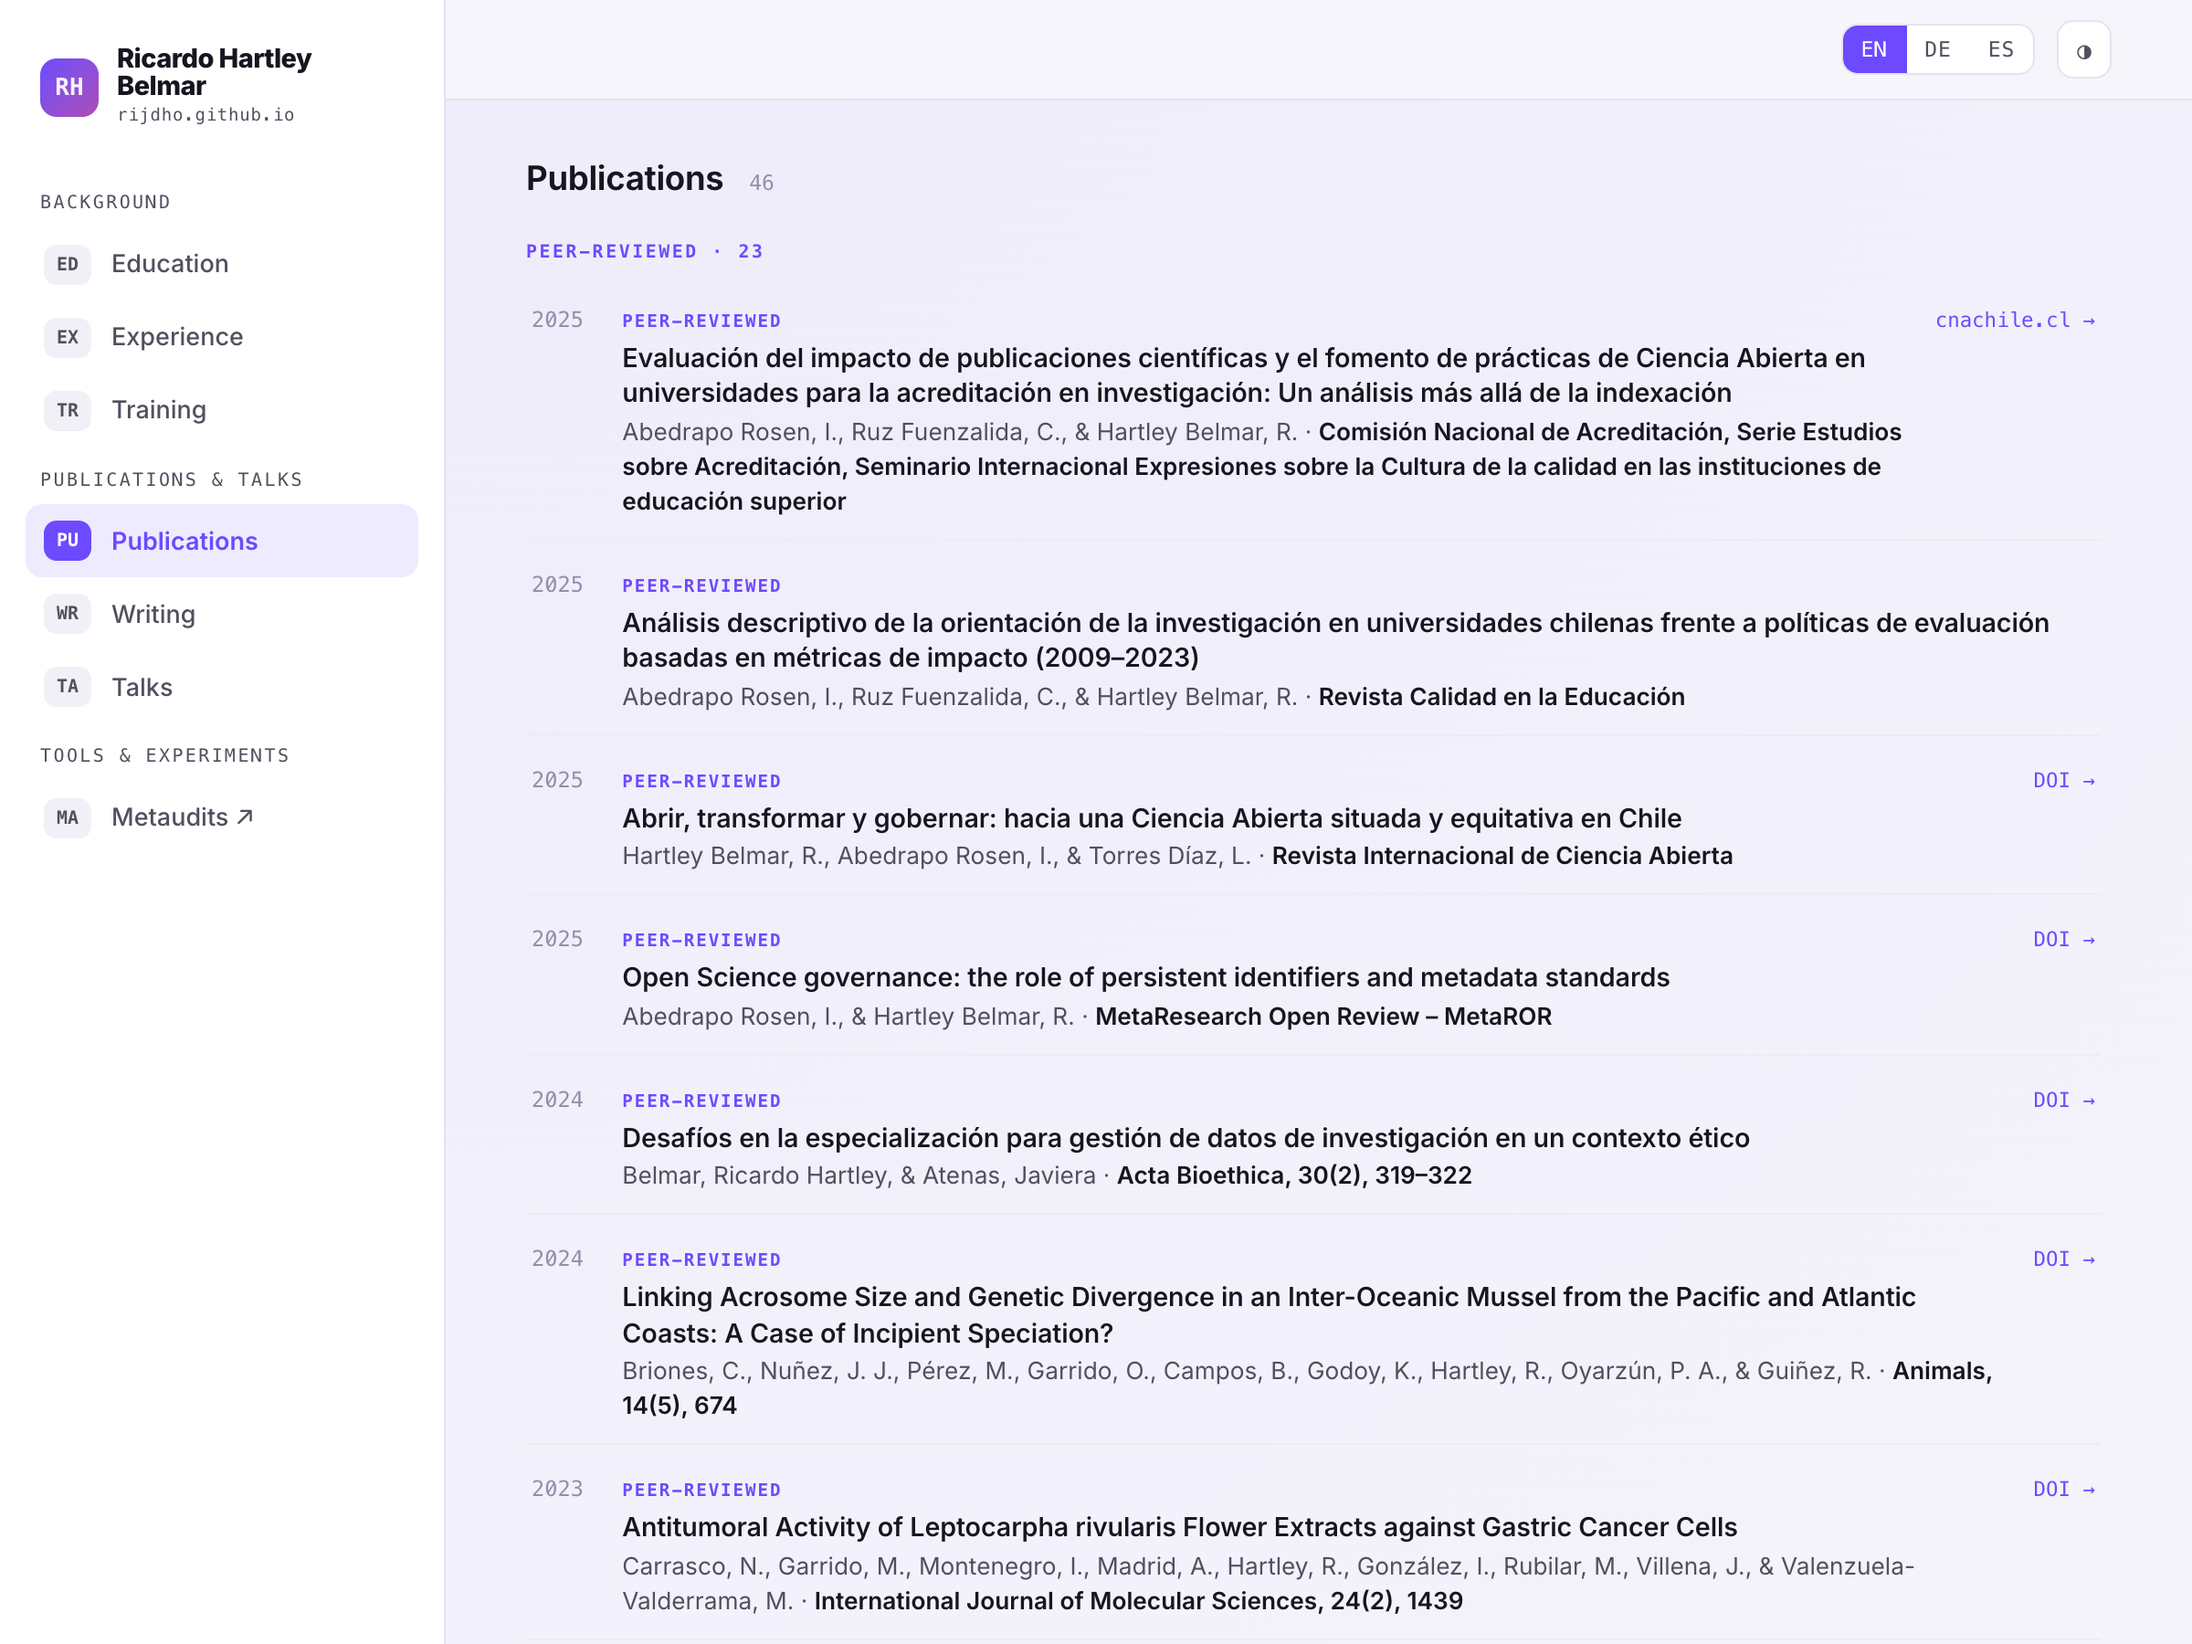
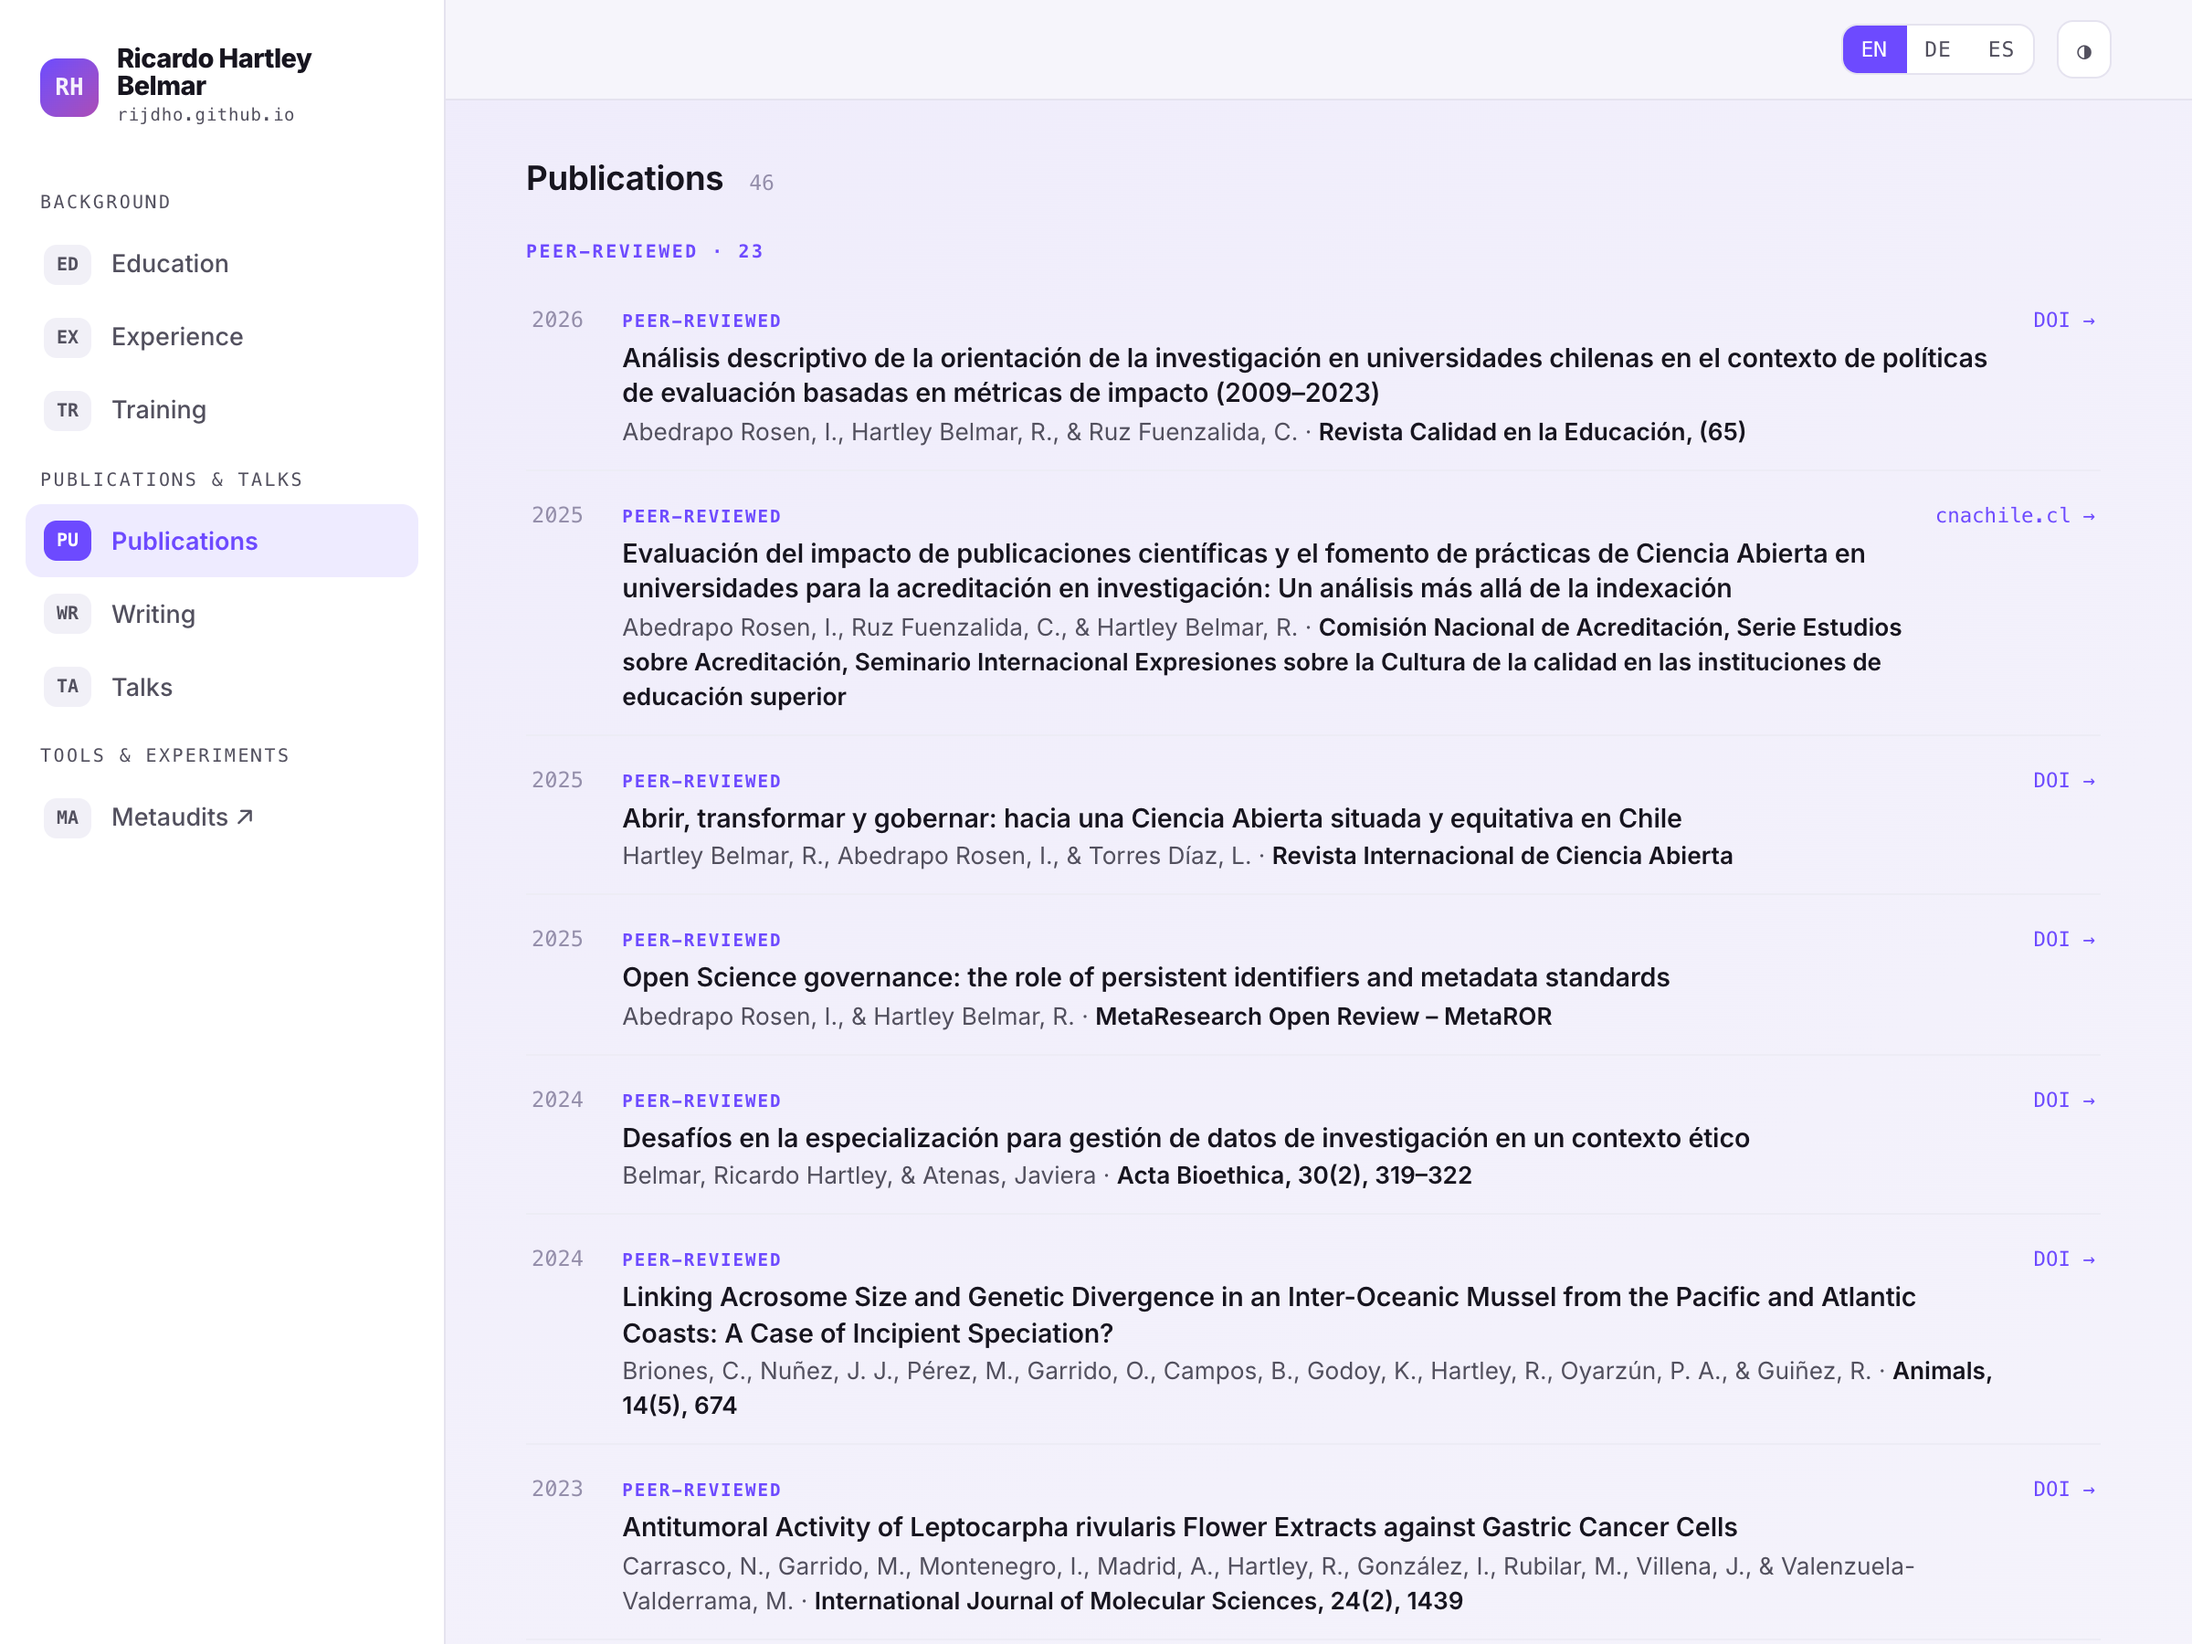
Remove leftovers the audit confirmed, and bring the docs back in step
The oval label table kept BiblioHelp and Metaudits entries no tool matches,
hub.css defined four tokens nothing reads, and its own @font-face rules
shadowed the shell's, so house/fonts/ was never fetched. The README images,
the repo CLAUDE.md and two test comments described an older site.

Changed region(s): [[0.2812, 0.1867, 0.9375, 0.4356]]

diff --git a/hub.css b/hub.css
@@ -1,40 +1,33 @@
-@font-face{font-family:"Inter Variable";font-style:normal;font-display:swap;font-weight:100 900;
-  src:url(./fonts/inter-latin-wght-normal.woff2) format("woff2-variations");
-  unicode-range:U+0000-00FF,U+0131,U+0152-0153,U+02BB-02BC,U+02C6,U+02DA,U+02DC,U+0304,U+0308,U+0329,U+2000-206F,U+2074,U+20AC,U+2122,U+2191,U+2193,U+2212,U+2215,U+FEFF,U+FFFD}
-@font-face{font-family:"Inter Variable";font-style:normal;font-display:swap;font-weight:100 900;
-  src:url(./fonts/inter-latin-ext-wght-normal.woff2) format("woff2-variations");
-  unicode-range:U+0100-02BA,U+02BD-02C5,U+02C7-02CC,U+02CE-02D7,U+02DD-02FF,U+0304,U+0308,U+0329,U+1D00-1DBF,U+1E00-1E9F,U+1EF2-1EFF,U+2020,U+20A0-20AB,U+20AD-20C0,U+2113,U+2C60-2C7F,U+A720-A7FF}
+/* Inter comes from house/house.css, which declares the same faces over house/fonts/. */
 
   :root{
-    --brand:#6d4aff; --brand-ink:#fff; --brand-weak:#eeebff;
+    --brand:#6d4aff; --brand-ink:#fff;
     --paper:#f7f6fb; --surface:#fff; --surface-alt:#f1f0f7; --border:#e5e3ef; --hair:#edecf5;
     --ink:#17151f; --muted:#52505e; --faint:#948eaa;
-    --ok:#178a5f; --ok-bg:#e7f5ee;
     --t-metadata:#0ea5a4; --t-assessment:#d97706; --t-infra:#4f6bed; --t-story:#db2777;
     --shadow:0 1px 2px rgba(23,21,31,.06), 0 8px 24px rgba(23,21,31,.05);
     --sans:"Inter Variable","Inter",system-ui,-apple-system,"Segoe UI",Roboto,sans-serif;
     --disp:"Inter Variable","Inter","Helvetica Neue",Helvetica,Arial,system-ui,sans-serif;
     --mono:ui-monospace,"SF Mono","JetBrains Mono",Menlo,Consolas,monospace;
-    --maxw:1080px;
   }
   @media (prefers-color-scheme:dark){:root{
-    --brand:#8b7bff; --brand-ink:#121118; --brand-weak:#221f35;
+    --brand:#8b7bff; --brand-ink:#121118;
     --paper:#121118; --surface:#1b1a22; --surface-alt:#232230; --border:#2c2a38; --hair:#262432;
-    --ink:#eceaf3; --muted:#a9a7b5; --faint:#6f6987; --ok:#37b98a; --ok-bg:#12271f;
+    --ink:#eceaf3; --muted:#a9a7b5; --faint:#6f6987;
     --t-metadata:#14b8a6; --t-assessment:#e08a09; --t-infra:#7c8ff5; --t-story:#ee5aa4;
     --shadow:0 1px 2px rgba(0,0,0,.3), 0 12px 34px rgba(0,0,0,.4);
   }}
   :root[data-theme="light"]{
-    --brand:#6d4aff; --brand-ink:#fff; --brand-weak:#eeebff;
+    --brand:#6d4aff; --brand-ink:#fff;
     --paper:#f7f6fb; --surface:#fff; --surface-alt:#f1f0f7; --border:#e5e3ef; --hair:#edecf5;
-    --ink:#17151f; --muted:#52505e; --faint:#948eaa; --ok:#178a5f; --ok-bg:#e7f5ee;
+    --ink:#17151f; --muted:#52505e; --faint:#948eaa;
     --t-metadata:#0ea5a4; --t-assessment:#d97706; --t-infra:#4f6bed; --t-story:#db2777;
     --shadow:0 1px 2px rgba(23,21,31,.06), 0 8px 24px rgba(23,21,31,.05);
   }
   :root[data-theme="dark"]{
-    --brand:#8b7bff; --brand-ink:#121118; --brand-weak:#221f35;
+    --brand:#8b7bff; --brand-ink:#121118;
     --paper:#121118; --surface:#1b1a22; --surface-alt:#232230; --border:#2c2a38; --hair:#262432;
-    --ink:#eceaf3; --muted:#a9a7b5; --faint:#6f6987; --ok:#37b98a; --ok-bg:#12271f;
+    --ink:#eceaf3; --muted:#a9a7b5; --faint:#6f6987;
     --t-metadata:#14b8a6; --t-assessment:#e08a09; --t-infra:#7c8ff5; --t-story:#ee5aa4;
     --shadow:0 1px 2px rgba(0,0,0,.3), 0 12px 34px rgba(0,0,0,.4);
   }

diff --git a/hub.js b/hub.js
@@ -63,16 +63,14 @@ function srcLabel(u){if(!u)return"";try{const h=new URL(u).hostname.replace(/^ww
 /* curated short labels shown inside the ovals (order matters: OpenAIRE variant before the plain MCP) */
 const SHORT=[
   /* Curated because a full title does not fit a 46px oval and the fallback, the part
-     before the colon, is not always distinct enough. "BiblioHelp Open" is anchored and
-     comes first because the plain /BiblioHelp/ below would swallow it and leave the twin
-     and its hosted sibling wearing the same label, which is two ovals a reader cannot
-     tell apart. The full name stays a hover away in the tooltip and a click away in the
-     panel. */
-  [/^BiblioHelp Open/,"BiblioHelp (open)"],[/^FAIR Metadata Check \(Extended\)/,"FAIR Check Extended"],
+     before the colon, is not always distinct enough. "FAIR Metadata Check (Extended)" is
+     anchored and comes first because the plain /^FAIR Metadata Check/ below would swallow
+     it and leave the hosted tool and its open twin wearing the same label. The full name
+     stays a hover away in the tooltip and a click away in the panel. */
+  [/^FAIR Metadata Check \(Extended\)/,"FAIR Check Extended"],
   [/^FAIR Metadata Check/,"FAIR Check"],
   [/^Research Assessment Reform Planner/,"Research Assessment Reform Planner"],[/^ORCID Affiliation Finder/,"ORCID Affiliation Finder"],
-  [/^The Sound of Inequality/,"The Sound of Inequality"],
-  [/BiblioHelp/,"BiblioHelp"],[/^Metaudits/,"Metaudits"],[/^Pollen/,"Pollen"],
+  [/^The Sound of Inequality/,"The Sound of Inequality"],[/^Pollen/,"Pollen"],
   [/MCP CRIS Live: OpenAIRE/,"MCP OpenAIRE"],
   [/MCP CRIS Live/,"MCP CRIS"],[/OpenAIRE Research/,"OpenAIRE AI"],
   [/PID Traceability/,"PID Workflows"],[/Value of Open Research Information/,"Value of Open Research Information"],

diff --git a/index.html b/index.html
@@ -23,7 +23,7 @@ works only as a response header, and GitHub Pages sends none. -->
 <!-- social:end -->
 <!-- The family shell (a synced copy of rijdho/house-style: scripts/sync-house.mjs), then this page's own styles. -->
 <link rel="stylesheet" href="./house/house.css?v=1">
-<link rel="stylesheet" href="./hub.css?v=4">
+<link rel="stylesheet" href="./hub.css?v=5">
 
 <div class="app" id="app">
   <aside class="rail">
@@ -110,4 +110,4 @@ works only as a response header, and GitHub Pages sends none. -->
   </div>
 </div>
 
-<script src="./hub.js?v=10"></script>
+<script src="./hub.js?v=11"></script>

diff --git a/CLAUDE.md b/CLAUDE.md
@@ -8,8 +8,8 @@ vanilla JS. Part of the violet-family design system (see `../CLAUDE.md`).
 
 `data/cv.json` is the only place CV content lives. Three consumers read it:
 
-- `index.html`: the hub. `fetch('./data/cv.json')` → derives `DATA` (apps = `experiments`,
-  writing = `portfolio`) and `EXTRA` (the tab categories), then renders the tabs + cloud.
+- `index.html` + `hub.js`: the hub. `hub.js` runs `fetch('./data/cv.json')` → derives
+  `DATA` (apps = `experiments`, writing = `portfolio`) and `EXTRA` (the tab categories), then renders the tabs + cloud.
   **Layout since 2026-09-24: the family shell** (a synced copy of rijdho/house-style in
   `house/`, `scripts/sync-house.mjs`, `tests/house.test.mjs`). The rail lists the sections,
   built by `renderNav()` from `TAB_GROUPS`: education, experience, training ("Background"),
@@ -22,7 +22,7 @@ vanilla JS. Part of the violet-family design system (see `../CLAUDE.md`).
   from the CV on 2026-09-24, at the author's request (data, page, hub and Markdown).
   Topic assignment for the cloud is the `topic` field on each experiment, and **it is data**,
   edit it there, not in code. Topic *labels/colours* are config (the `TOPICS` object in
-  `index.html`). The text inside an oval is config too: the `SHORT` table maps a title to a
+  `hub.js`). The text inside an oval is config too: the `SHORT` table maps a title to a
   short label, and anything unmatched falls back to the title itself. **A new tool needs a
   `SHORT` entry**, or its oval shows whatever the title is, which for the open twins is the
   repository slug. That is the right name in a citation and the wrong one in a 46px oval,
@@ -48,7 +48,8 @@ existed as a slash-separated list in `cv.json` and a full-stop-separated one in 
 
 Two literals are kept on purpose, and both are overwritten by `render()` on load: the name
 in the `<h1>` and the ORCID chip. They are the page's identity, neither ever changes, and
-the site has no `og:` tags, so raw HTML is all a link unfurler gets. Prose is never
+a link unfurler reads only raw HTML (the `og:` block that `build_cv.py` writes covers the
+preview, not the page body). Prose is never
 duplicated this way, because prose is what actually changes.
 
 **To update anything on the site, edit `data/cv.json` and nothing else.** The pages fetch
@@ -75,7 +76,7 @@ link, never the whole row.** Wrapping the row in an `<a>` underlines the year, t
 and the blurb along with it. That was the Writing tab until 2026-08-03, and it was the only
 one of the seven tabs doing it.
 
-The right-hand chip (`linkChip()` in `index.html`) labels itself from the URL: `DOI` only
+The right-hand chip (`linkChip()` in `hub.js`) labels itself from the URL: `DOI` only
 when it actually matches `doi.org`, otherwise the host via the existing `srcLabel()`. Do not
 hard-code the label: it used to read `DOI →` for every entry that had any URL at all, so a
 publisher homepage was presented as a persistent identifier. An entry with no `url` gets no

diff --git a/CHANGELOG.md b/CHANGELOG.md
@@ -12,6 +12,22 @@ ships in numbered drops.
 
 ## [Unreleased]
 
+### Removed
+
+- **Leftovers with nothing left to act on:** the BiblioHelp and Metaudits entries in the oval
+  label table (no tool in the cloud matches them), four colour tokens in `hub.css` that nothing
+  reads, and the hub's own `@font-face` rules, which duplicated the family shell's and made the
+  hub load `fonts/` while the shell's identical `house/fonts/` went unused. The hub now takes
+  Inter from `house/`; the CV page keeps `fonts/`.
+
+### Fixed
+
+- **Docs that had drifted:** the README screenshots are regenerated (the cloud still showed the
+  labels from before 1.8.0, and the publications image the paper without its DOI), the repo's
+  `CLAUDE.md` points at `hub.js` where the tables and `linkChip()` now live and no longer says
+  the site has no `og:` tags, and two test comments cite a pair that still exists.
+- **`meta.updated` in `cv.json`** reads 2026-09-29, the date the CV Markdown files print.
+
 ## [1.8.0]: 2026-09-29
 
 ### Changed

diff --git a/README.md b/README.md
@@ -31,8 +31,9 @@ under the name: FAIR Metadata Check 10.5281/zenodo.21492530, ORCID Affiliation F
 Publications & talks and a link to Metaudits, with Publications highlighted. The main column
 shows the heading Publications 46, then the peer-reviewed group, each row labelled
 "Peer-reviewed" above its title. The chip on the right names what the link actually resolves
-to: "DOI" only for a real doi.org address, otherwise the bare host, so the first row reads
-cnachile.cl and the second, which has no URL yet, carries no chip at all.](docs/hub-publications.png)
+to: "DOI" only for a real doi.org address, otherwise the bare host, so the first row, the 2026
+paper in Revista Calidad en la Educación, reads DOI and the second, the CNA seminar paper,
+reads cnachile.cl.](docs/hub-publications.png)
 
 - **The academic CV** (`cv.html`): the same data laid out as a formal, print-ready CV.
   The **Print / PDF** button produces a clean PDF straight from the browser.

diff --git a/CV.de.md b/CV.de.md
@@ -297,4 +297,4 @@ Live-Fragen während einer Lehrveranstaltung oder eines Workshops: Auswahlfragen
 - **DataCite Certified Core Training** (2024): Zertifizierung mit Schwerpunkt auf der Nutzung persistenter Identifikatoren (PIDs), Best Practices für Metadaten und der Anbindung von Repositorien an die DataCite-Infrastruktur.
 
 ---
-*Generiert aus data/cv.json · 2026-09-24*
+*Generiert aus data/cv.json · 2026-09-29*

diff --git a/CV.es.md b/CV.es.md
@@ -297,4 +297,4 @@ Preguntas en vivo durante una clase o un taller: opción múltiple, escalas de v
 - **DataCite Certified Core Training** (2024): Certificación enfocada en el uso de identificadores persistentes (PIDs), buenas prácticas de metadatos e integración de repositorios con la infraestructura de DataCite.
 
 ---
-*Generado desde data/cv.json · 2026-09-24*
+*Generado desde data/cv.json · 2026-09-29*

diff --git a/CV.en.md b/CV.en.md
@@ -297,4 +297,4 @@ Live questions during a lecture or a workshop: multiple choice, rating scales, r
 - **DataCite Certified Core Training** (2024): Certification focused on the use of persistent identifiers (PIDs), metadata best practices, and repository integration with DataCite infrastructure.
 
 ---
-*Generated from data/cv.json · 2026-09-24*
+*Generated from data/cv.json · 2026-09-29*
